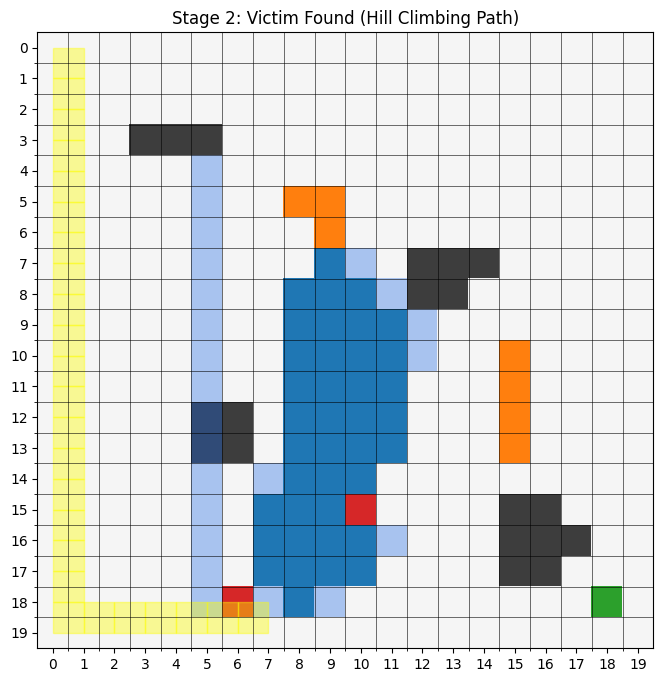
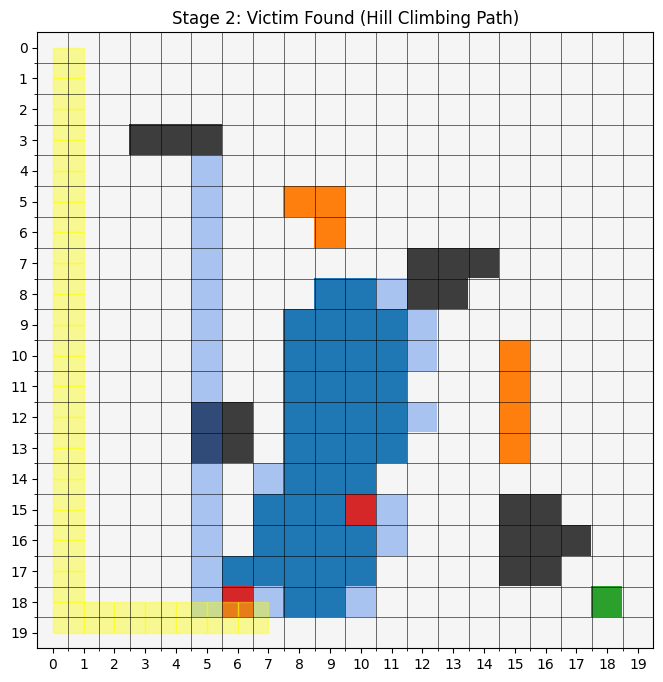
debug the hill climbing part

diff --git a/gui.py b/gui.py
@@ -211,19 +211,42 @@ def algo_risk_astar(start, goals):
                 heapq.heappush(open_list,(tg+_hm(nb,list(goal_set)),nb))
     return None, None
 
-def algo_hill_climb(start, goals, max_steps=400):
-    goal_set=set(goals); cur=start; path=[cur]; vis={cur}
+def algo_hill_climb(start, goals, max_steps=2000):
+    goal_set = set(goals)
+    cur = start
+    path = [cur]
+    visited = {cur}
+
     for _ in range(max_steps):
-        if cur in goal_set: break
-        nbs=get_neighbors_local(cur)
-        if not nbs: break
-        best=None; best_score=_hm(cur,list(goal_set))
+        if cur in goal_set:
+            break
+
+        nbs = get_neighbors_local(cur)
+        if not nbs:
+            break
+
+        current_score = _hm(cur, list(goal_set))
+        best = None
+        best_score = current_score
         for nb in nbs:
-            if nb in vis: continue
-            s=_hm(nb,list(goal_set))
-            if s<best_score: best_score=s; best=nb
-        if best is None: break
-        cur=best; vis.add(cur); path.append(cur)
+            s = _hm(nb, list(goal_set))
+            if s < best_score:
+                best_score = s
+                best = nb
+
+        if best is None:
+            unvisited = [nb for nb in nbs if nb not in visited]
+            if unvisited:
+                best = min(unvisited, key=lambda nb: _hm(nb, list(goal_set)))
+            else:
+                best = min(nbs, key=lambda nb: _hm(nb, list(goal_set)))
+                if best in path[-3:]:
+                    break
+
+        visited.add(best)
+        cur = best
+        path.append(cur)
+
     return path, (cur if cur in goal_set else None)
 
 ALGORITHMS = {
@@ -752,8 +775,8 @@ class FloodGUI:
             if self._stop_flag: self._finish_run("Stopped"); return
             self._update_stats(victims=len(rem), rescued_ct=len(self.rescued))
             path,found=algo_fn(cur_pos,rem)
-            if path is None:
-                self._log("No path to any victim!","error")
+            if path is None or found is None:
+                self._log(f"⚠ Rescue unsuccessful — agent stuck, could not reach victim.","warn")
                 self._finish_run("Stuck"); return
             self._log(f"Routing to {found}: {len(path)-1} step(s)","info")
             for i,cell in enumerate(path):
@@ -765,6 +788,9 @@ class FloodGUI:
                 self.root.after(0,self._draw_grid)
                 self._update_stats(steps=self.total_steps,cost=f"{self.total_cost:.1f}")
                 time.sleep(delay())
+            if found is None or found not in rem:
+                self._log("⚠ Rescue unsuccessful — victim unreachable.", "warn")
+                self._finish_run("Stuck"); return
             self.rescued.add(found); rem.remove(found)
             if cell_type[found[0]][found[1]]==VICTIM: cell_type[found[0]][found[1]]=ROAD
             cur_pos=found